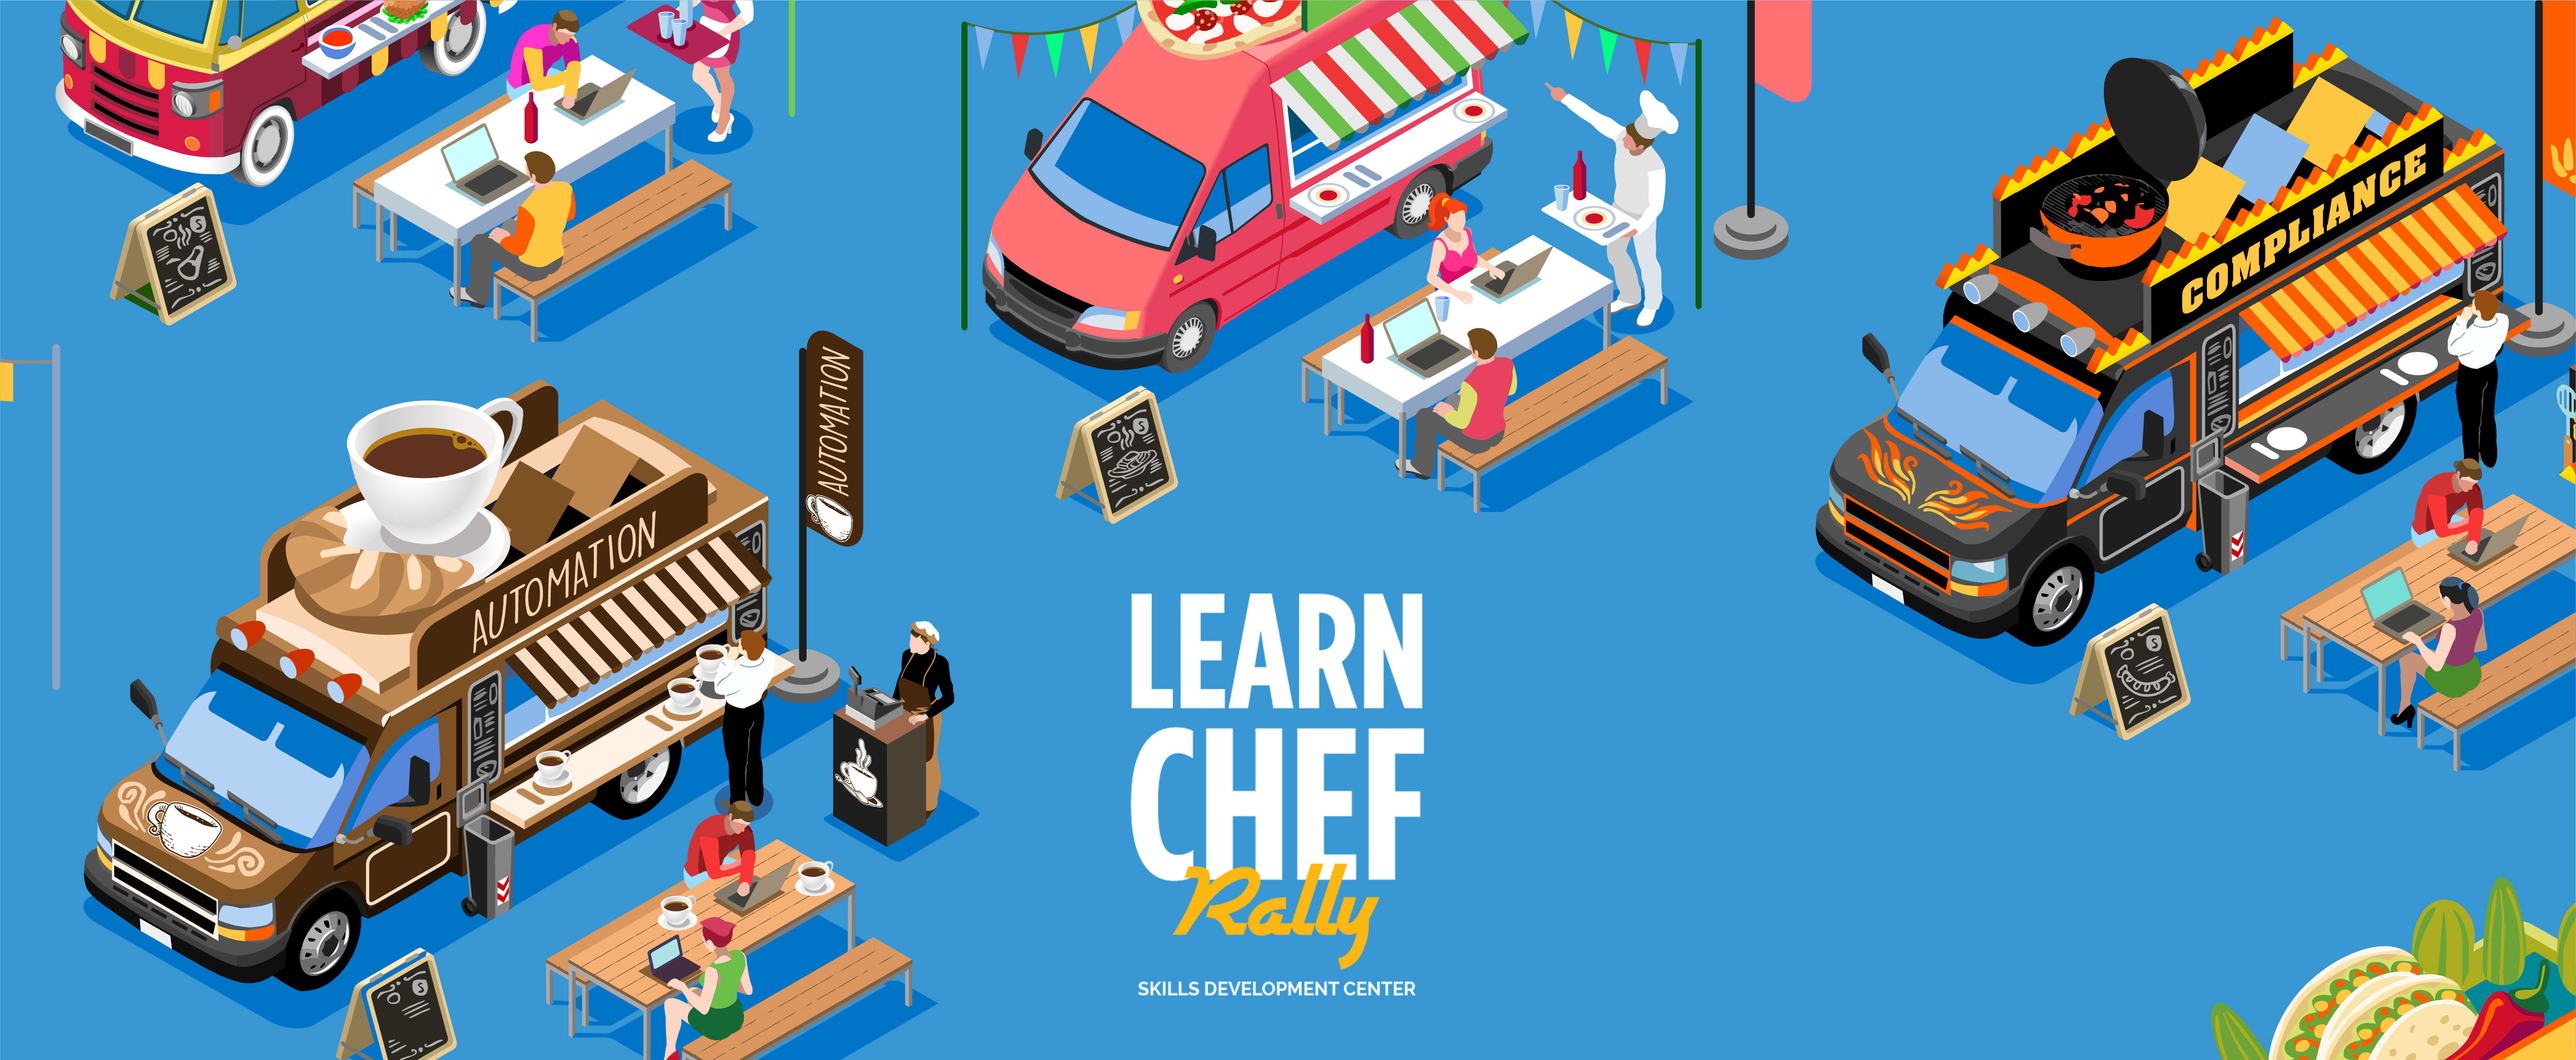
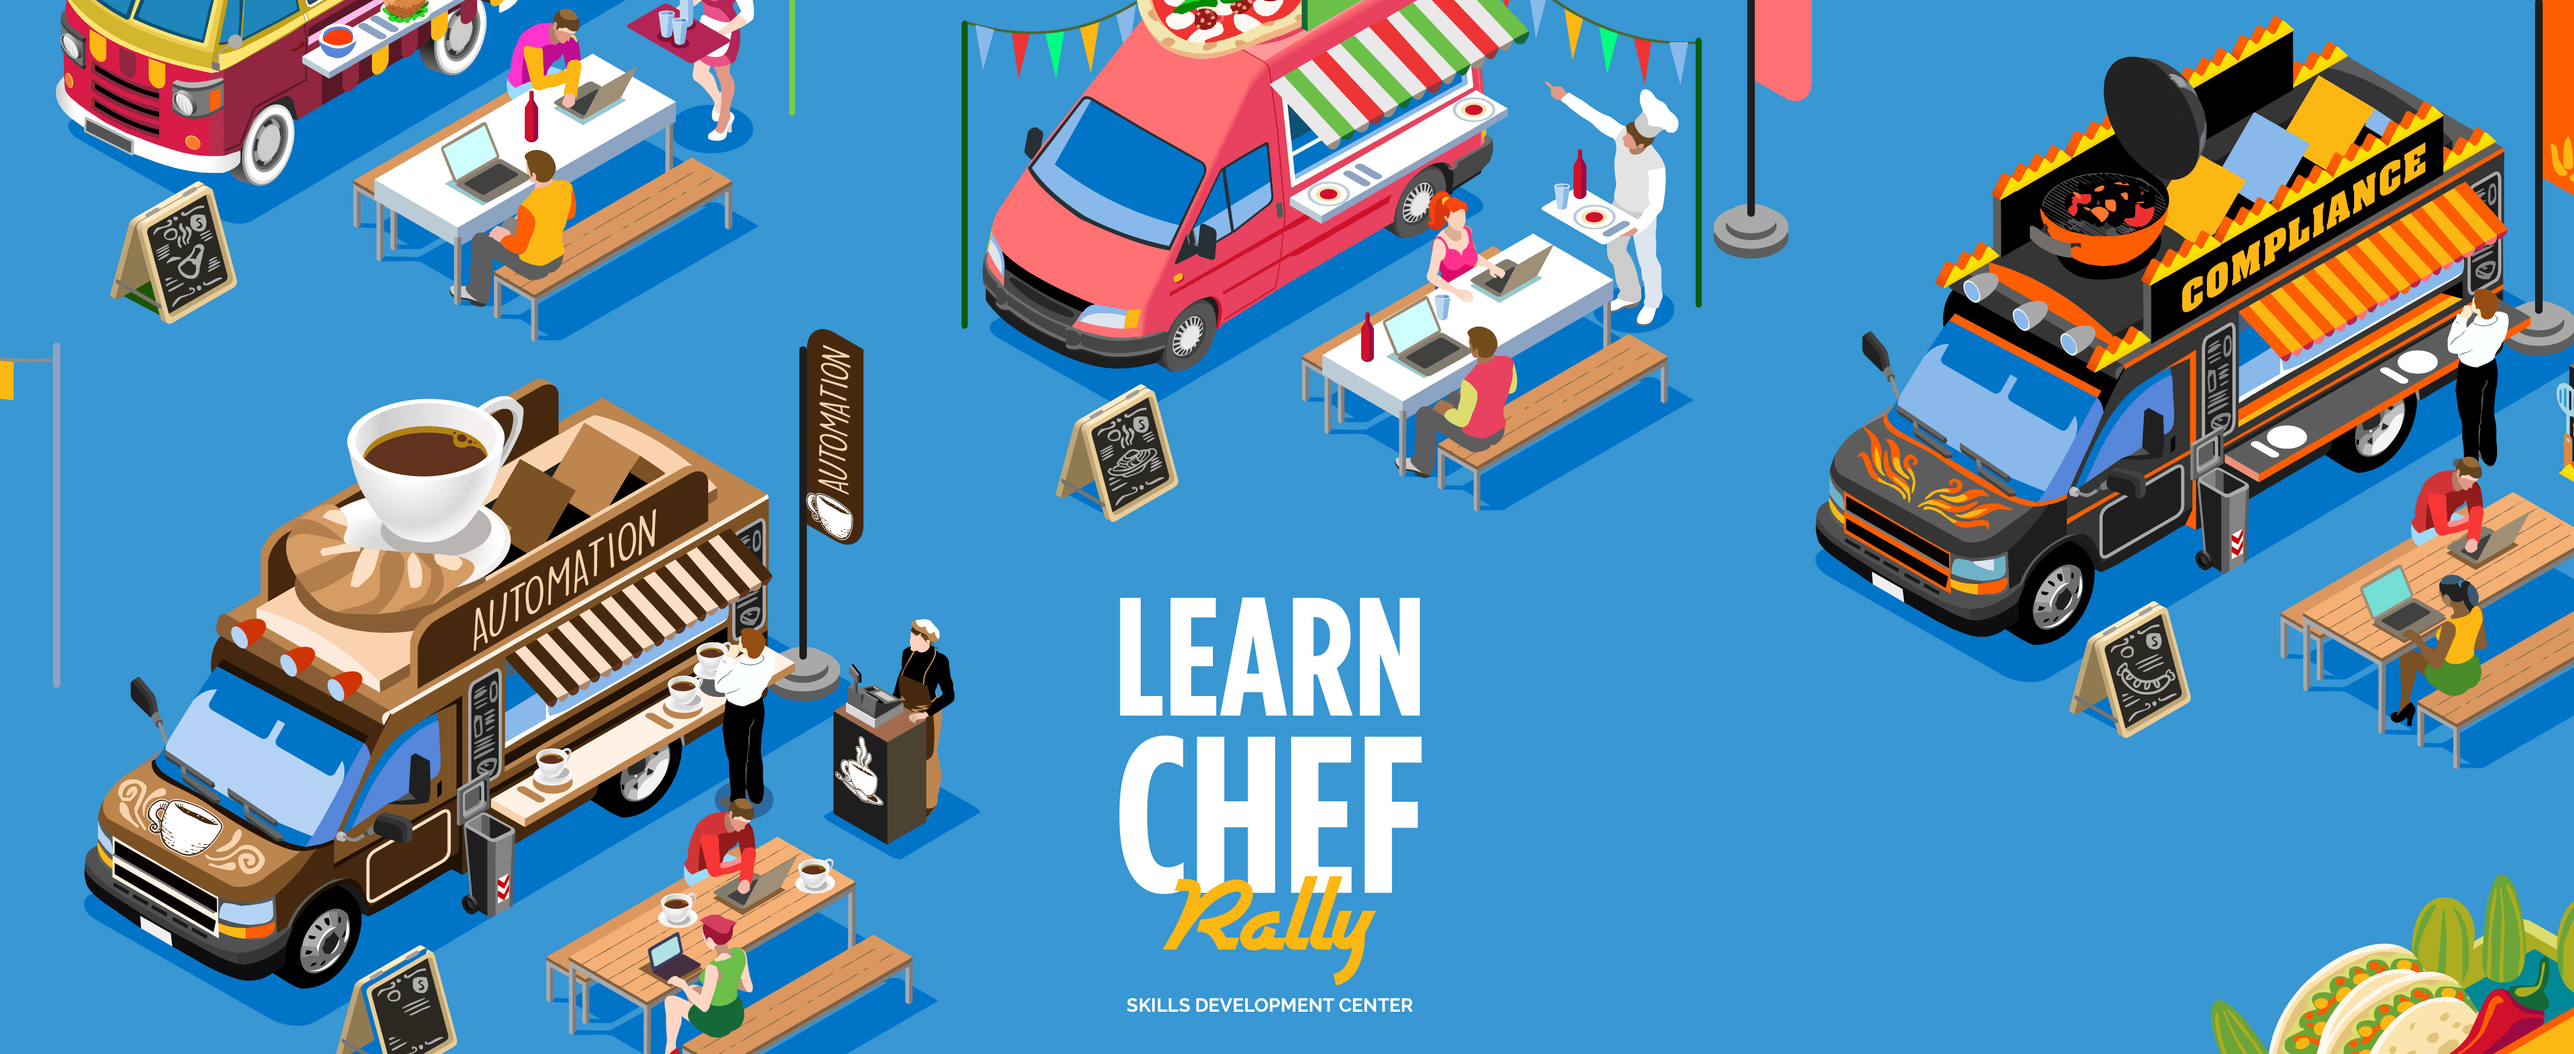
CLC-160, CLC-162 Updated Home page hero image and progress bar color.

diff --git a/source/assets/stylesheets/_track.scss b/source/assets/stylesheets/_track.scss
@@ -119,6 +119,14 @@
     right: 0;
     top: 45px;
     width: 50%;
+
+    .progress {
+      background-color: $chef-white;
+
+      .meter {
+        background-color: $font-gray;
+      }
+    }
   }
 }
 

diff --git a/source/assets/stylesheets/_variables.scss b/source/assets/stylesheets/_variables.scss
@@ -38,6 +38,7 @@ $monospace-font: Menlo, Monaco, Consolas, monospace;
 $raleway-font: 'Raleway', sans-serif;
 
 //color
+$chef-white: #fff;
 $font-gray: #7d868c;
 $font-black: #000;
 $font-orange: #F18B21;
